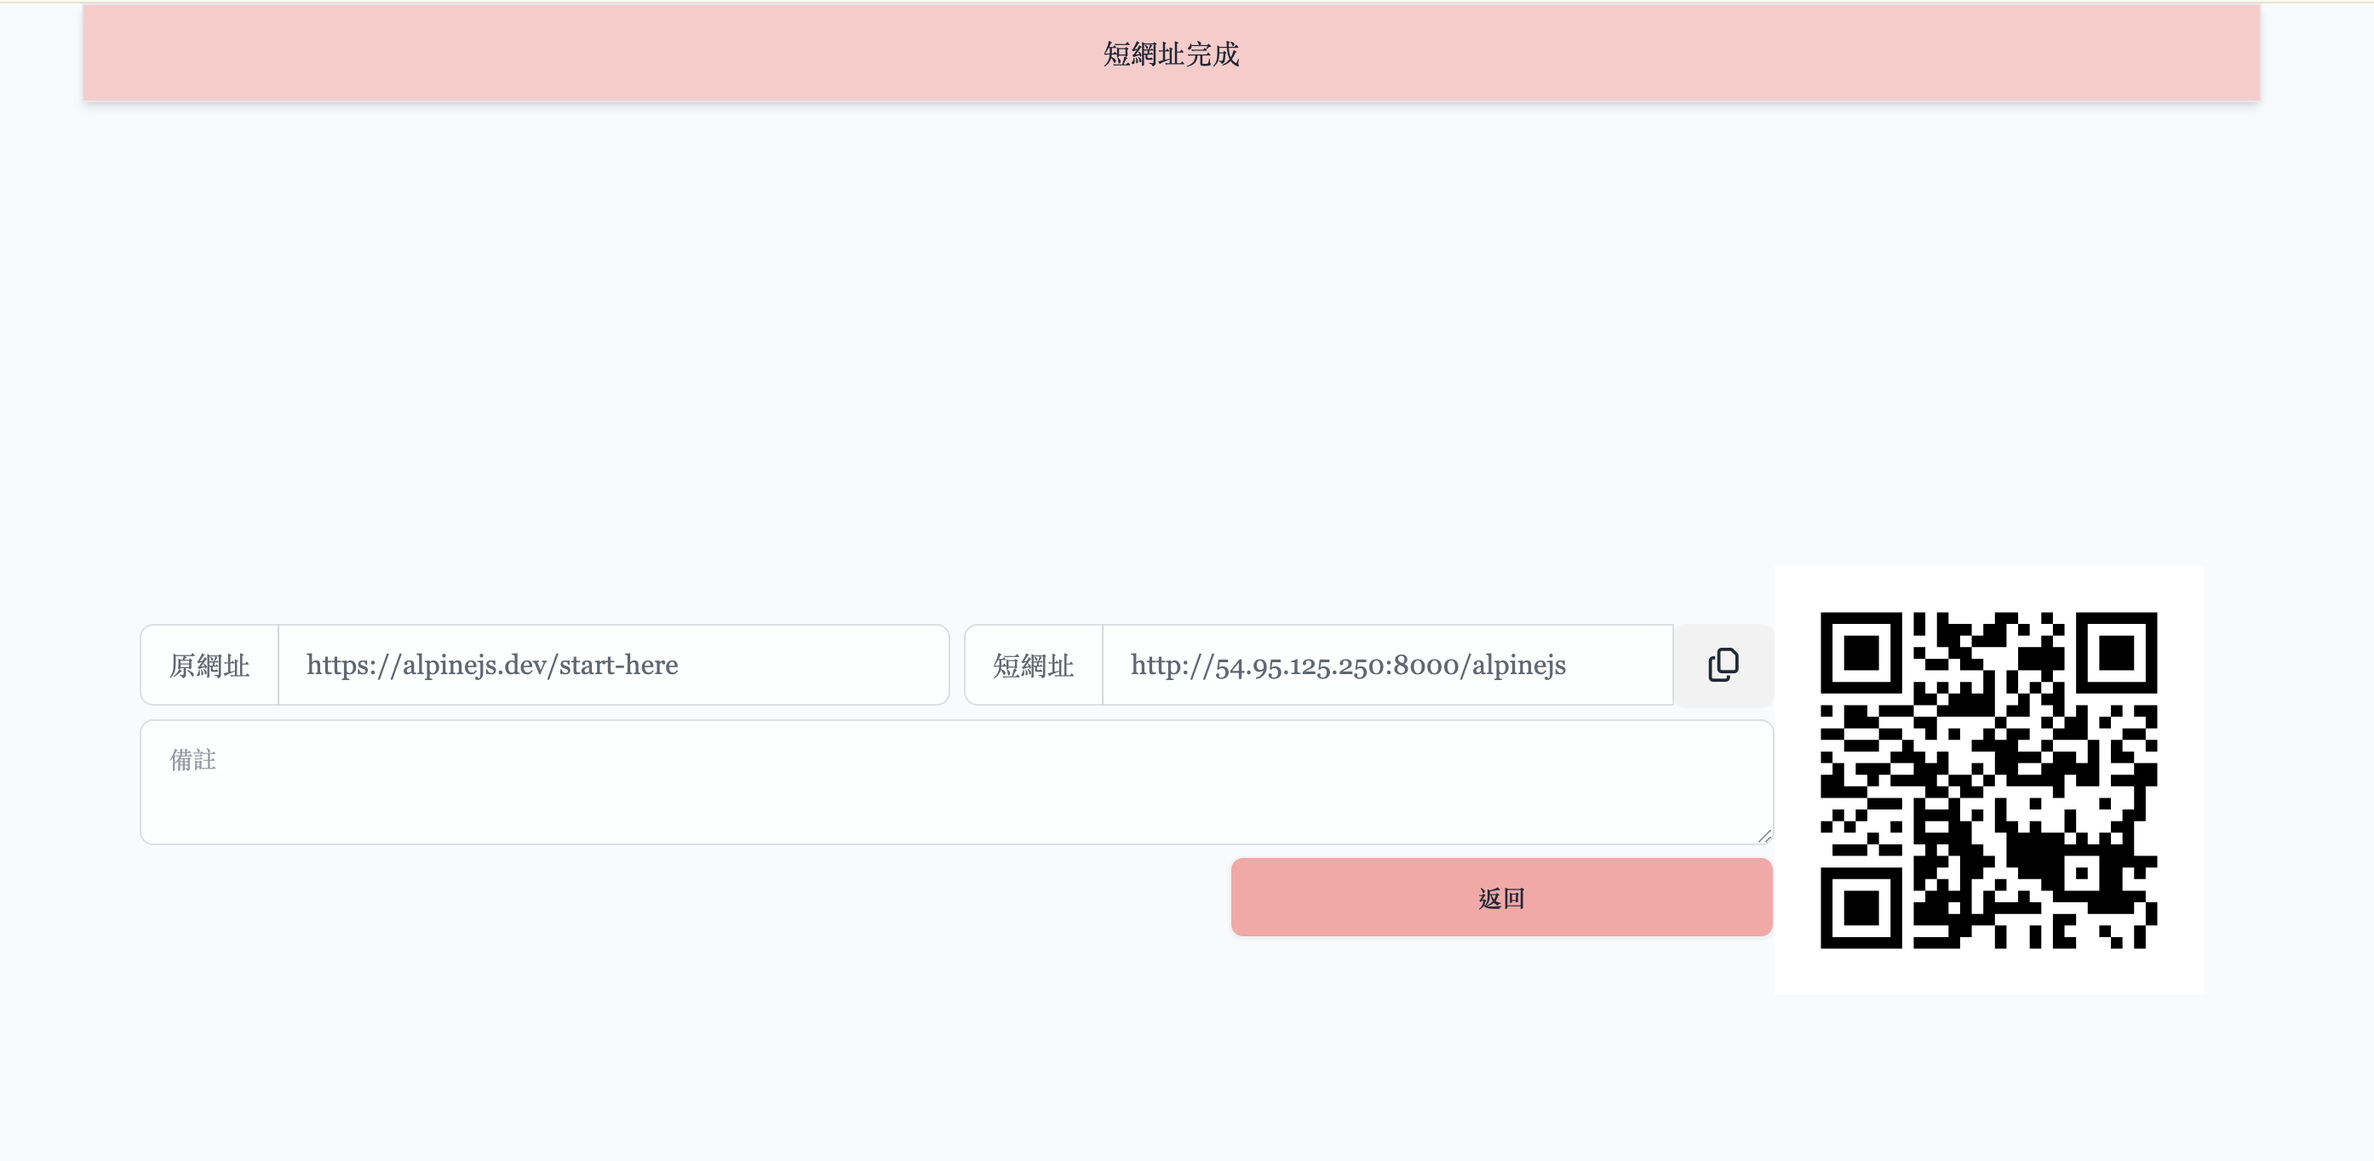
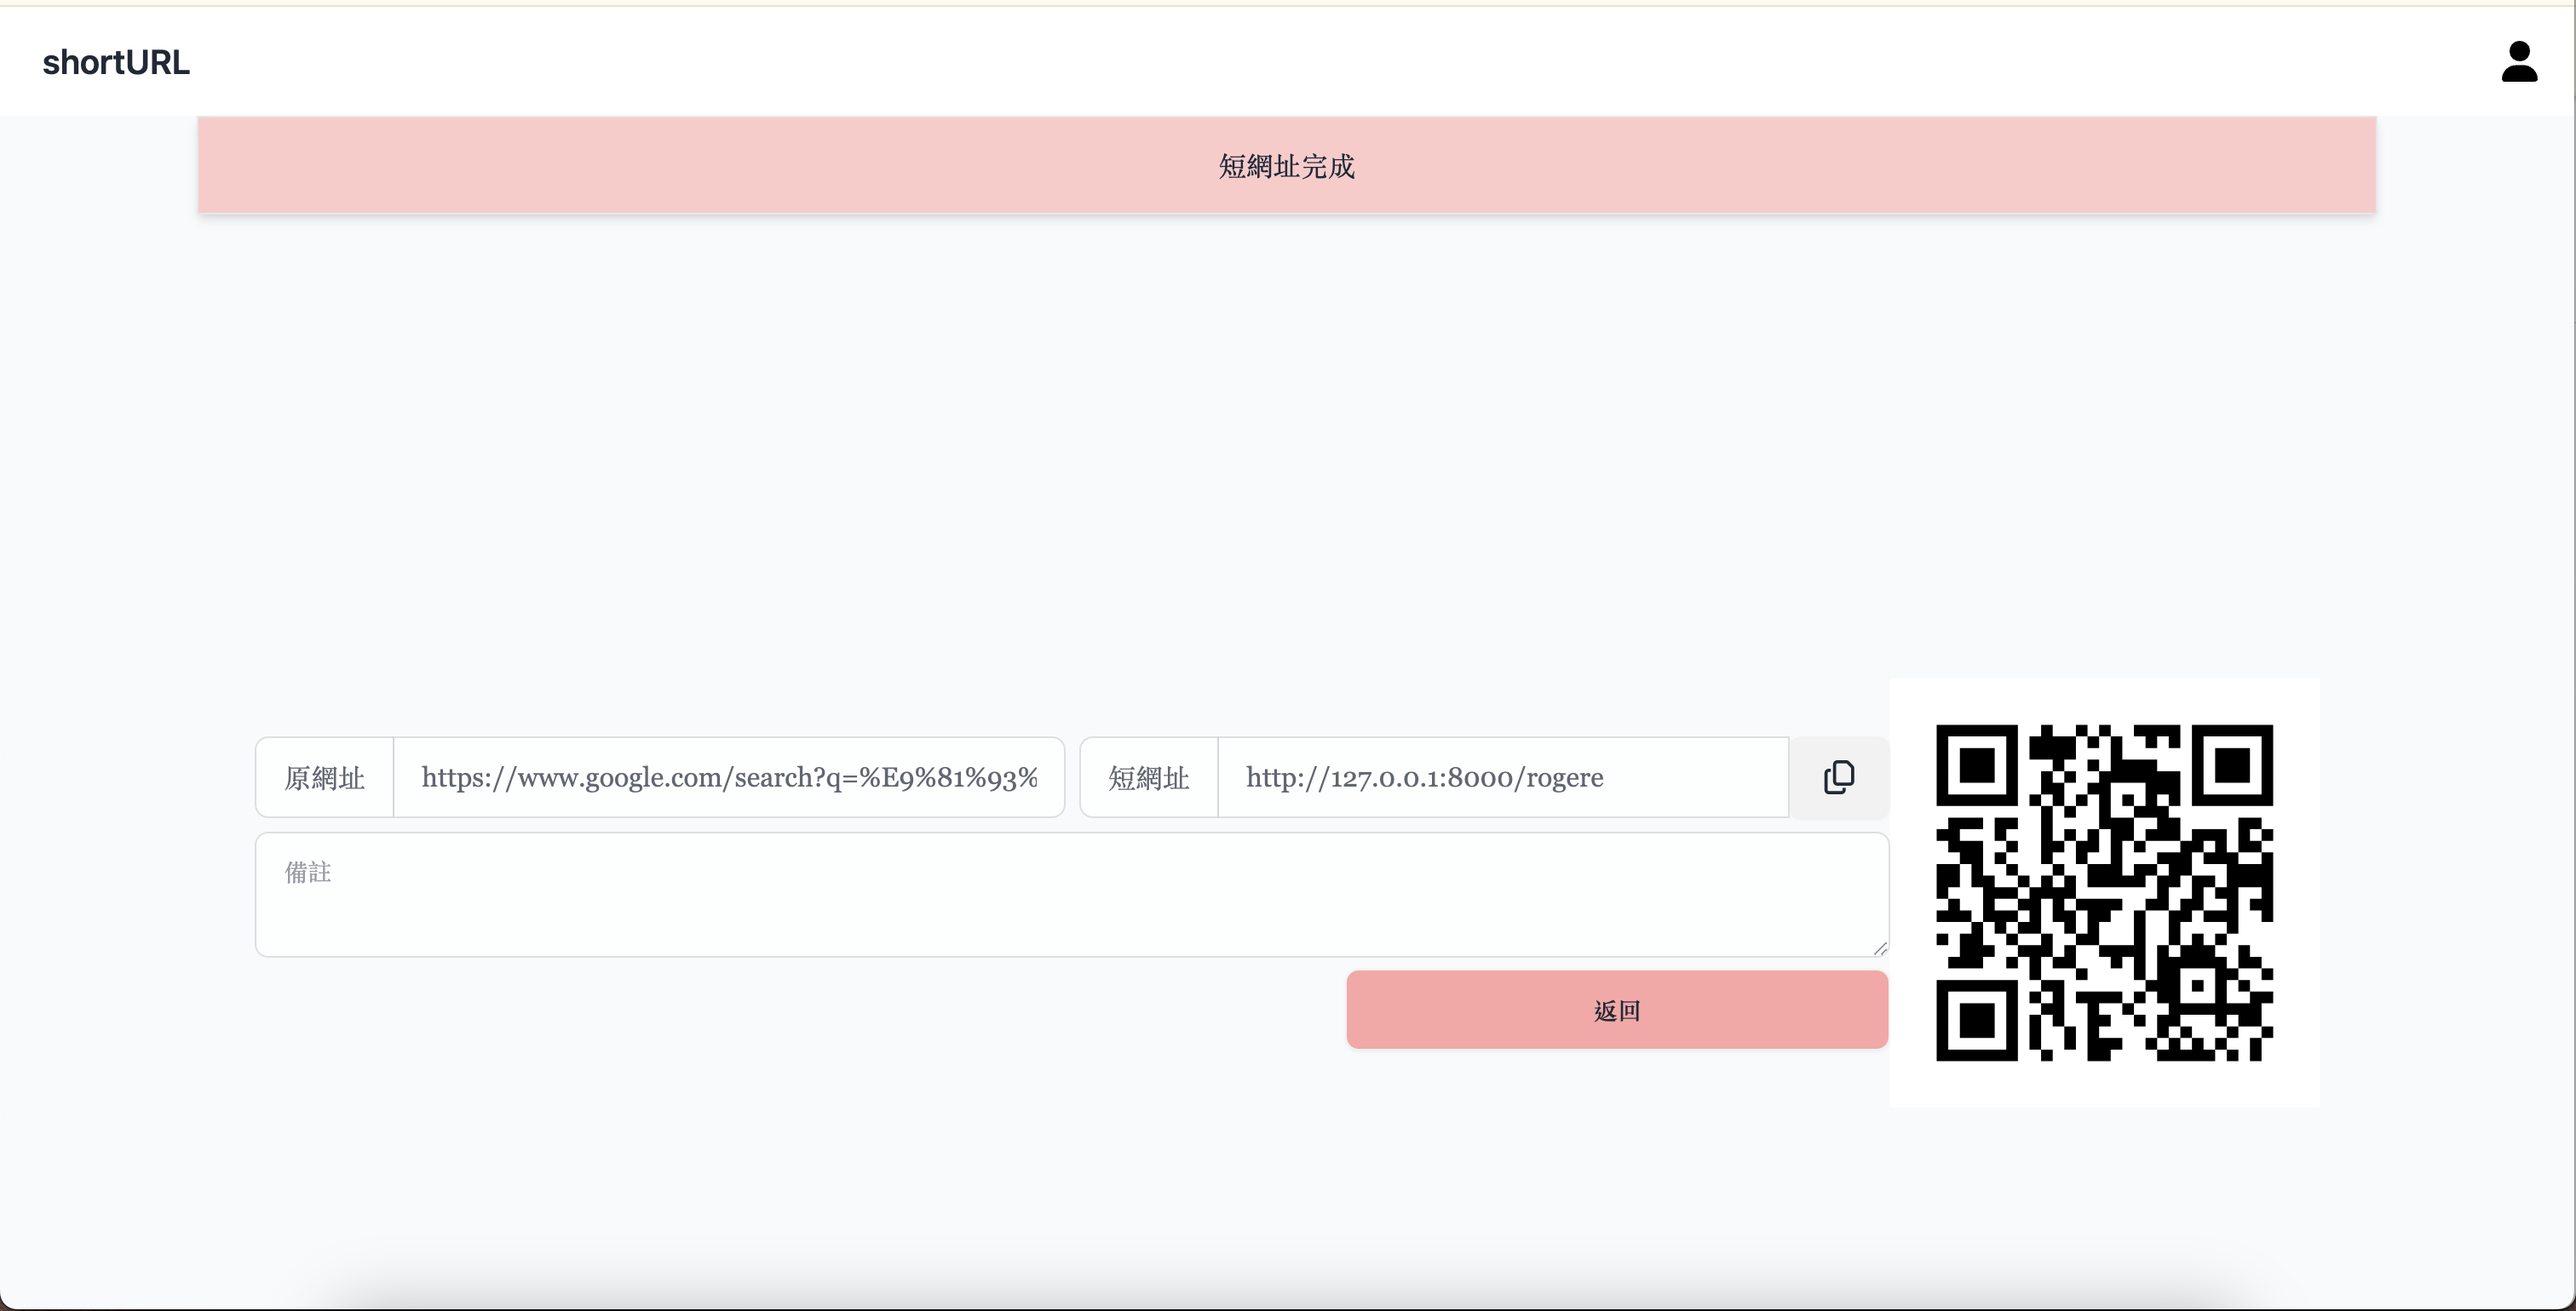
add navber and add bg-image

diff --git a/theme/static/css/dist/styles.css b/theme/static/css/dist/styles.css
@@ -1170,6 +1170,28 @@ html {
   padding-bottom: 0.5rem;
 }
 
+.hero {
+  display: grid;
+  width: 100%;
+  place-items: center;
+  background-size: cover;
+  background-position: center;
+}
+
+.hero > * {
+  grid-column-start: 1;
+  grid-row-start: 1;
+}
+
+.hero-overlay {
+  grid-column-start: 1;
+  grid-row-start: 1;
+  height: 100%;
+  width: 100%;
+  background-color: var(--fallback-n,oklch(var(--n)/var(--tw-bg-opacity)));
+  --tw-bg-opacity: 0.5;
+}
+
 .input {
   flex-shrink: 1;
   -webkit-appearance: none;
@@ -1256,6 +1278,19 @@ html {
   :where(.join *:has(.join-item)) {
     border-radius: inherit;
   }
+}
+
+.navbar {
+  display: flex;
+  align-items: center;
+  padding: var(--navbar-padding, 0.5rem);
+  min-height: 4rem;
+  width: 100%;
+}
+
+:where(.navbar > *:not(script, style)) {
+  display: inline-flex;
+  align-items: center;
 }
 
 .textarea {
@@ -1714,6 +1749,10 @@ html {
   display: block;
 }
 
+.inline-block {
+  display: inline-block;
+}
+
 .flex {
   display: flex;
 }
@@ -1724,6 +1763,46 @@ html {
 
 .h-screen {
   height: 100vh;
+}
+
+.h-5 {
+  height: 1.25rem;
+}
+
+.h-1\/3 {
+  height: 33.333333%;
+}
+
+.h-1\/6 {
+  height: 16.666667%;
+}
+
+.h-\[50px\] {
+  height: 50px;
+}
+
+.h-\[200px\] {
+  height: 200px;
+}
+
+.h-\[100px\] {
+  height: 100px;
+}
+
+.h-\[80px\] {
+  height: 80px;
+}
+
+.h-\[70px\] {
+  height: 70px;
+}
+
+.h-\[60px\] {
+  height: 60px;
+}
+
+.min-h-screen {
+  min-height: 100vh;
 }
 
 .w-1\/3 {
@@ -1756,6 +1835,50 @@ html {
 
 .w-\[60px\] {
   width: 60px;
+}
+
+.w-5 {
+  width: 1.25rem;
+}
+
+.w-2\/3 {
+  width: 66.666667%;
+}
+
+.w-3\/5 {
+  width: 60%;
+}
+
+.w-4\/6 {
+  width: 66.666667%;
+}
+
+.w-\[120px\] {
+  width: 120px;
+}
+
+.w-\[190px\] {
+  width: 190px;
+}
+
+.w-\[300px\] {
+  width: 300px;
+}
+
+.w-\[600px\] {
+  width: 600px;
+}
+
+.w-\[500px\] {
+  width: 500px;
+}
+
+.flex-1 {
+  flex: 1 1 0%;
+}
+
+.flex-none {
+  flex: none;
 }
 
 .border-spacing-9 {
@@ -1830,6 +1953,31 @@ html {
   background-color: rgb(254 202 202 / var(--tw-bg-opacity));
 }
 
+.bg-base-100 {
+  --tw-bg-opacity: 1;
+  background-color: var(--fallback-b1,oklch(var(--b1)/var(--tw-bg-opacity)));
+}
+
+.bg-opacity-10 {
+  --tw-bg-opacity: 0.1;
+}
+
+.bg-opacity-60 {
+  --tw-bg-opacity: 0.6;
+}
+
+.bg-opacity-40 {
+  --tw-bg-opacity: 0.4;
+}
+
+.bg-opacity-80 {
+  --tw-bg-opacity: 0.8;
+}
+
+.stroke-current {
+  stroke: currentColor;
+}
+
 .p-4 {
   padding: 1rem;
 }
@@ -1857,12 +2005,22 @@ html {
   line-height: 1.75rem;
 }
 
+.text-7xl {
+  font-size: 4.5rem;
+  line-height: 1;
+}
+
 .leading-normal {
   line-height: 1.5;
 }
 
 .tracking-normal {
   letter-spacing: 0em;
+}
+
+.text-white {
+  --tw-text-opacity: 1;
+  color: rgb(255 255 255 / var(--tw-text-opacity));
 }
 
 .opacity-70 {

diff --git a/theme/templates/out_home.html b/theme/templates/out_home.html
@@ -1,11 +1,19 @@
 {% extends "base.html" %} {% block outhome %}
-<div class="container mx-auto">
-  <section class="flex items-center justify-center h-screen">
-    <a
-      href="{% url 'urlshort:index' %}"
-      class="btn btn-ghost text-5xl hover:bg-red-400"
-      >前往五倍之路</a
-    >
-  </section>
+<div
+  class="hero min-h-screen"
+  style="
+    background-image: url(https://img.daisyui.com/images/stock/photo-1507358522600-9f71e620c44e.webp);
+  "
+>
+  <div class="hero-overlay bg-opacity-60"></div>
+  <div class="container mx-auto">
+    <section class="flex items-center justify-center h-screen">
+      <a
+        href="{% url 'urlshort:index' %}"
+        class="btn btn-ghost text-7xl text-white w-[500px] h-[60px] hover:bg-red-400"
+        >前往五倍之路</a
+      >
+    </section>
+  </div>
 </div>
 {% endblock %}

diff --git a/theme/templates/nav.html b/theme/templates/nav.html
@@ -1,0 +1,19 @@
+<div class="navbar bg-base-100">
+  <div class="flex-1">
+    <a href="/" class="btn btn-ghost text-xl">shortURL</a>
+  </div>
+  <div class="flex-none">
+    <button class="btn btn-square btn-ghost">
+      <svg
+        xmlns="http://www.w3.org/2000/svg"
+        height="24"
+        width="21"
+        viewBox="0 0 448 512"
+      >
+        <path
+          d="M224 256A128 128 0 1 0 224 0a128 128 0 1 0 0 256zm-45.7 48C79.8 304 0 383.8 0 482.3C0 498.7 13.3 512 29.7 512l388.6 0c16.4 0 29.7-13.3 29.7-29.7C448 383.8 368.2 304 269.7 304l-91.4 0z"
+        />
+      </svg>
+    </button>
+  </div>
+</div>

diff --git a/theme/templates/base.html b/theme/templates/base.html
@@ -17,6 +17,7 @@
     {% tailwind_css %}
   </head>
   <body>
+    {% include "nav.html" %}
     <div class="bg-gray-50 font-serif leading-normal tracking-normal">
       {% block outhome %}{% endblock %}
       <div class="container mx-auto">{% block content %} {% endblock %}</div>

diff --git a/urlshort/views.py b/urlshort/views.py
@@ -4,6 +4,7 @@ import string
 from urlshort.models import ShortURL
 from urlshort.form.url_form import ShortURLForm
 from django.contrib import messages
+from core.settings import INTERNAL_IPS
 
 
 def out_home(request):
@@ -16,7 +17,7 @@ def index(request):
         form = ShortURLForm(request.POST)
         if form.is_valid() and fields:
             form = form.save(commit=False)
-            form.short_url = f"http://54.95.125.250:8000/{fields}"
+            form.short_url = f"http://{INTERNAL_IPS[0]}:8000/{fields}"
             form.save()
             messages.success(request, "短網址完成")
             return render(request, "pages/show.html", {"form": form})
@@ -32,13 +33,13 @@ def show(request, id):
 
 
 def redirect(request, url):
-    url_content = ShortURL.objects.get(short_url=f"http://54.95.125.250:8000/{url}")
+    url_content = ShortURL.objects.get(short_url=f"http://{INTERNAL_IPS[0]}:8000/{url}")
     url = url_content.url
     return HttpResponseRedirect(url)
 
 
 def radom_unique(str_url):
-    short_url = f"http://54.95.125.250:8000/{str_url}"
+    short_url = f"http://{INTERNAL_IPS[0]}:8000/{str_url}"
     if not ShortURL.objects.filter(short_url=short_url).exists():
         if str_url == None:
             radom_field = "".join(random.choices(string.ascii_letters, k=6))
